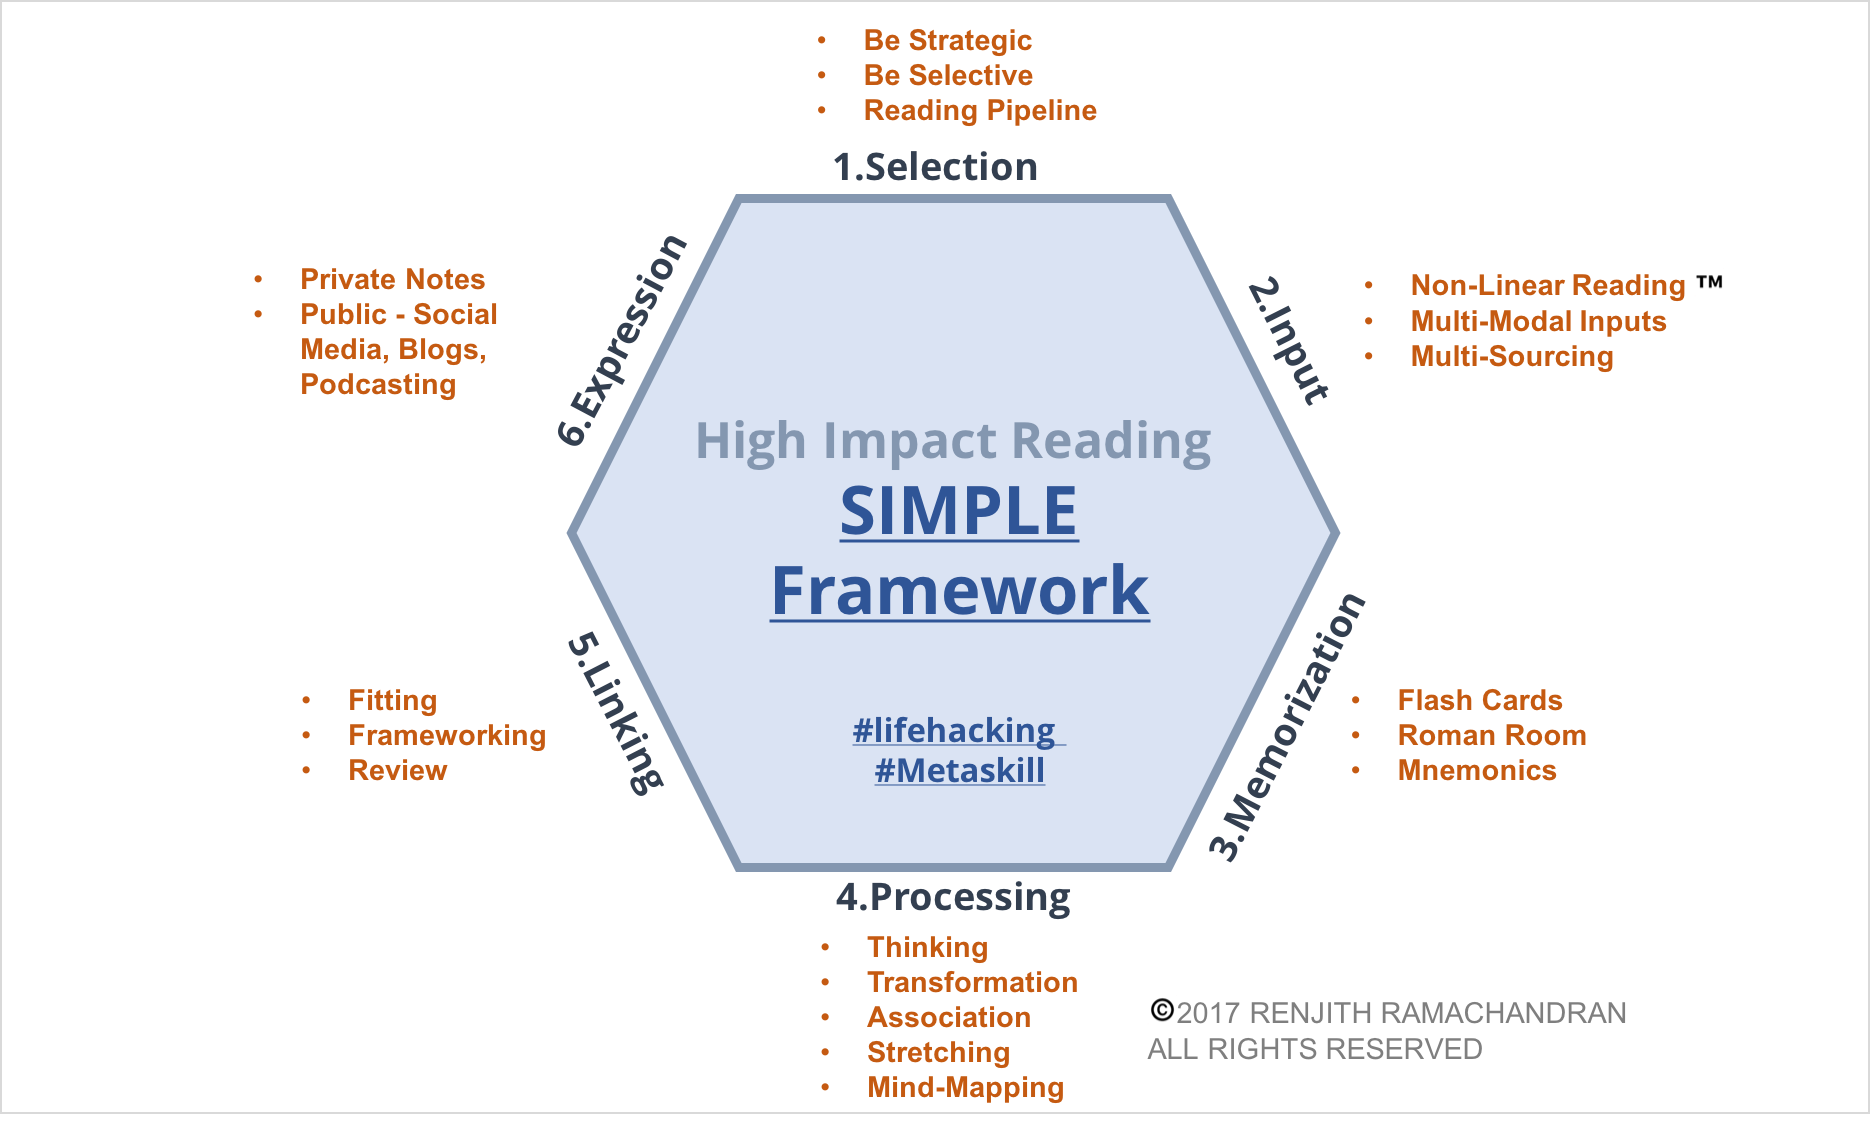
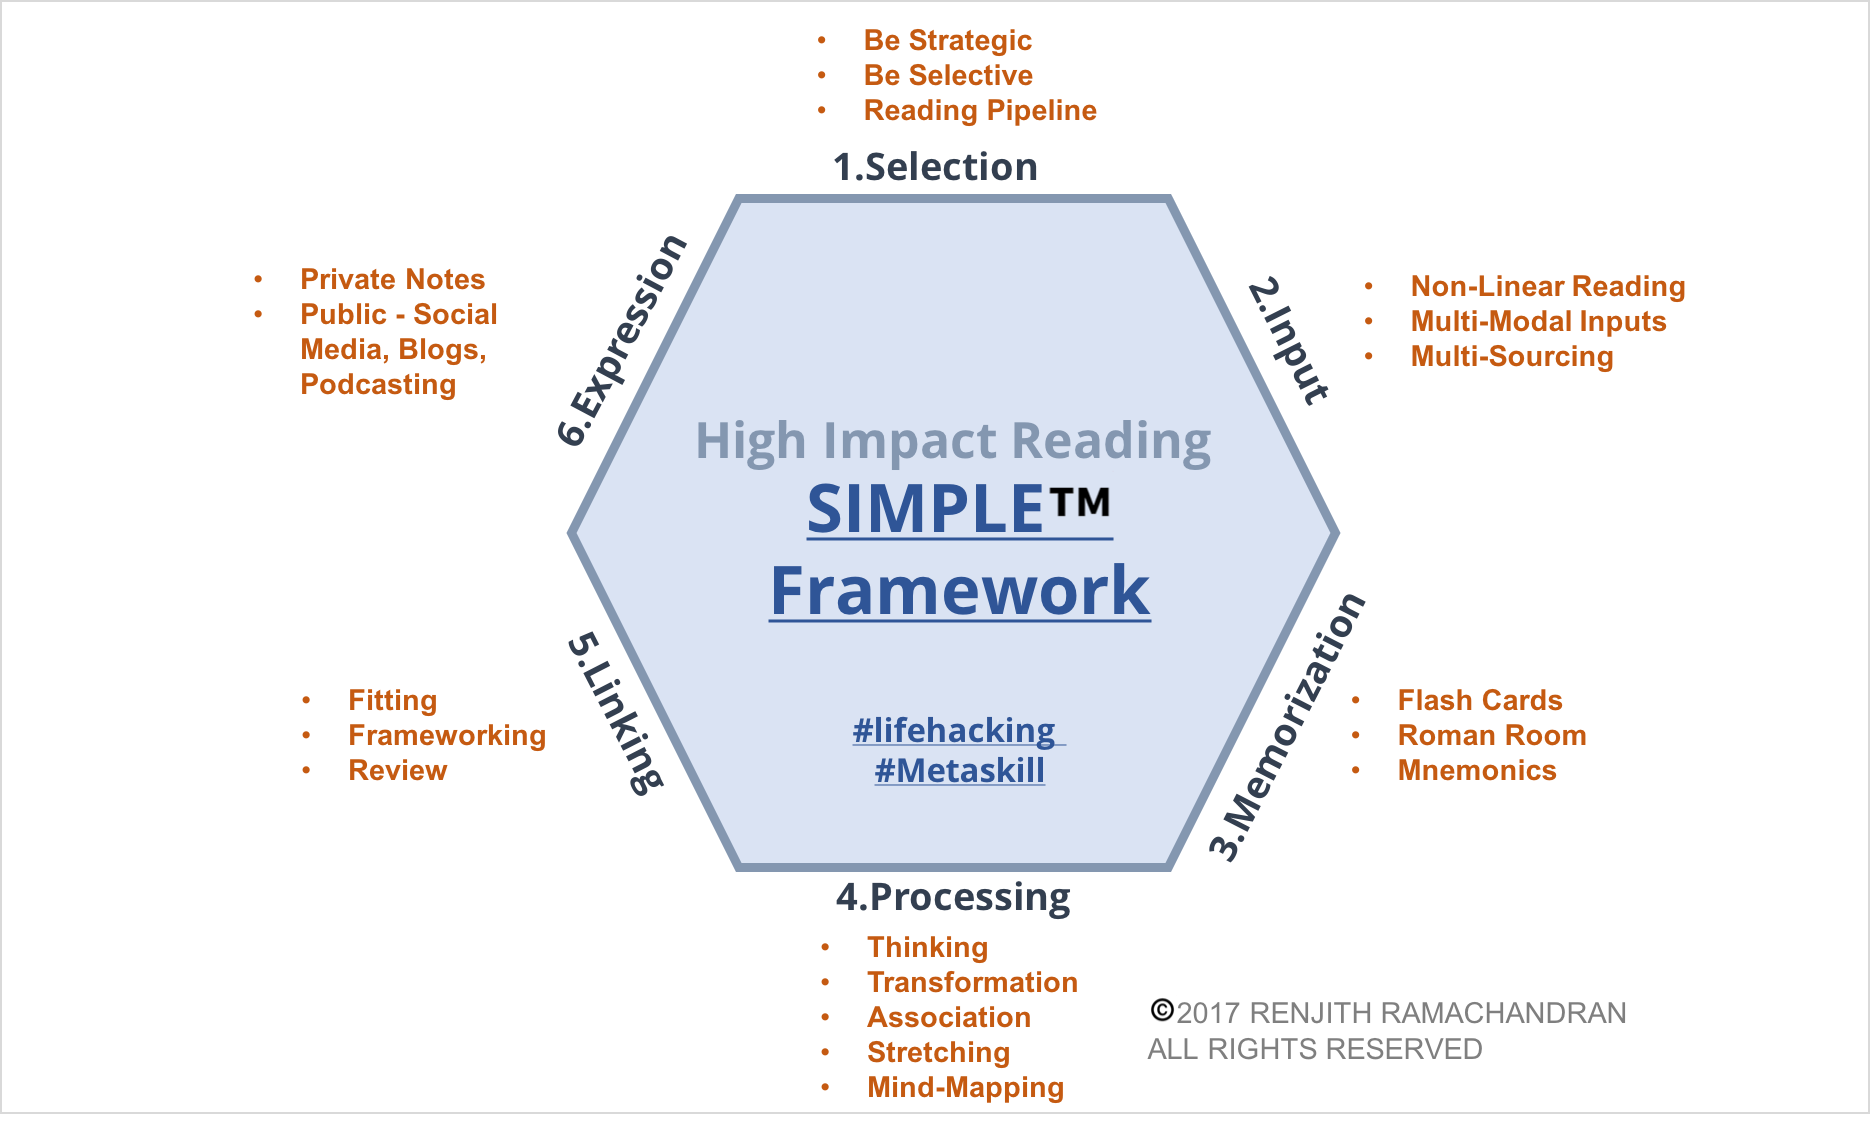
Added TOC to LAMA

Changed region(s): [[0.4342, 0.4055, 0.5893, 0.5615], [0.8064, 0.2496, 0.8995, 0.2807]]

diff --git a/_site/hireading/index.html b/_site/hireading/index.html
@@ -6,7 +6,7 @@
   <meta http-equiv="X-UA-Compatible" content="IE=edge">
   <meta name="viewport" content="width=device-width, initial-scale=1">
 
-  <title>High Impact Reading™ - SIMPLE™ Framework</title>
+  <title>High Impact Reading - SIMPLE™ Framework</title>
   <meta name="description" content="My blog to publish my thoughts on Technology, Strategy, Management">
 
   <link rel="stylesheet" href="/assets/main.css">
@@ -18,8 +18,8 @@
   
 
   <!-- Begin Jekyll SEO tag v2.2.3 -->
-<title>High Impact Reading™ - SIMPLE™ Framework | Renjith Ramachandran</title>
-<meta property="og:title" content="High Impact Reading™ - SIMPLE™ Framework" />
+<title>High Impact Reading - SIMPLE™ Framework | Renjith Ramachandran</title>
+<meta property="og:title" content="High Impact Reading - SIMPLE™ Framework" />
 <meta property="og:locale" content="en_US" />
 <meta name="description" content="My blog to publish my thoughts on Technology, Strategy, Management" />
 <meta property="og:description" content="My blog to publish my thoughts on Technology, Strategy, Management" />
@@ -27,7 +27,7 @@
 <meta property="og:url" content="http://localhost:4000/hireading/" />
 <meta property="og:site_name" content="Renjith Ramachandran" />
 <script type="application/ld+json">
-{"@context":"http://schema.org","@type":"WebPage","headline":"High Impact Reading™ - SIMPLE™ Framework","description":"My blog to publish my thoughts on Technology, Strategy, Management","url":"http://localhost:4000/hireading/"}</script>
+{"@context":"http://schema.org","@type":"WebPage","headline":"High Impact Reading - SIMPLE™ Framework","description":"My blog to publish my thoughts on Technology, Strategy, Management","url":"http://localhost:4000/hireading/"}</script>
 <!-- End Jekyll SEO tag -->
 
 </head>
@@ -77,7 +77,7 @@
           
             
             
-            <a class="page-link" href="/hireading/">High Impact Reading™ - SIMPLE™ Framework</a>
+            <a class="page-link" href="/hireading/">High Impact Reading - SIMPLE™ Framework</a>
             
           
             
@@ -119,7 +119,7 @@
         <article class="post" itemscope itemtype="http://schema.org/BlogPosting">
 
   <header class="post-header">
-    <h1 class="post-title" itemprop="name headline">High Impact Reading™ - SIMPLE™ Framework</h1>
+    <h1 class="post-title" itemprop="name headline">High Impact Reading - SIMPLE™ Framework</h1>
   </header>
 
   <div class="post-content" itemprop="articleBody">
@@ -131,10 +131,10 @@
 
 <p>Is there a better way to read non-fiction and business books which dramatically increases our comprehension and knowledge? Is the traditional linear reading the most effective way of reading a book? How can I retain all the information in a book in my mind when I need them?</p>
 
-<p>I started with these questions and after thinking and tweaking for several years, I have created an approach that dramatically improves the quality of reading for any non-fiction reader. I call this <strong>High Impact Reading™</strong></p>
+<p>I started with these questions and after thinking and tweaking for several years, I have created an approach that dramatically improves the quality of reading for any non-fiction reader. I call this <strong>High Impact Reading</strong></p>
 
 <ul id="markdown-toc">
-  <li><a href="#simple-framework-for-high-impact-reading" id="markdown-toc-simple-framework-for-high-impact-reading"><em>SIMPLE</em> Framework for High Impact Reading</a>    <ul>
+  <li><a href="#simple-framework-for-high-impact-reading" id="markdown-toc-simple-framework-for-high-impact-reading"><em>SIMPLE™</em> Framework for High Impact Reading</a>    <ul>
       <li><a href="#s---selection" id="markdown-toc-s---selection">S - Selection</a>        <ul>
           <li><a href="#be-strategic" id="markdown-toc-be-strategic">Be Strategic</a></li>
           <li><a href="#be-selective" id="markdown-toc-be-selective">Be Selective</a></li>
@@ -168,7 +168,7 @@
   <li><a href="#in-summary" id="markdown-toc-in-summary">In summary</a></li>
 </ul>
 
-<h1 id="simple-framework-for-high-impact-reading"><em>SIMPLE</em> Framework for High Impact Reading</h1>
+<h1 id="simple-framework-for-high-impact-reading"><em>SIMPLE™</em> Framework for High Impact Reading</h1>
 
 <p>The following are the six steps to more effective reading. I have arranged these steps into an easy to remember framework called SIMPLE. The following diagram summarizes the framework.</p>
 
@@ -299,7 +299,7 @@
 <p>Often, associating the knowledge that you have about a topic into a broad framework and placing the new knowledge into that framework is an effective method for linking for long term memory. A simple framework is a tree structure with some classification of the various concepts you know about the topic. For example, I put the 5 Leadership frameworks I like into a pentagon structure. This includes my own <a href="/victori">VICTORI</a> framework</p>
 
 <h3 id="review">Review</h3>
-<p>Review is a key element to linking. Periodically, review the concept structure in the book that was memorized during the memorization step. Then review the way this is linked to existing knowledge.</p>
+<p>Review is a key element to linking. Periodically, review the concept structure in the book that was memorized during the memorization step as well as Fitting and Frameworking that was done as a part of the Linking step. Then review the way this is linked to existing knowledge.</p>
 
 <h2 id="e---expression">E - Expression</h2>
 <p>The final step in the mastery of the concepts related to the book is to express these ideas yourself (Output). Use simple techniques to output your knowledge about the book and the concepts from the book. This can be done using</p>

diff --git a/_site/2017/08/20/hireading.html b/_site/2017/08/20/hireading.html
@@ -7,7 +7,7 @@
   <meta name="viewport" content="width=device-width, initial-scale=1">
 
   <title>High Impact Reading - SIMPLE framework</title>
-  <meta name="description" content="I have created a framework for a reading approach that is 10-100X more effective than traditional reading. Here is my High Impact Reading™ article.">
+  <meta name="description" content="I have created a framework for a reading approach that is 10-100X more effective than traditional reading. Here is my High Impact Reading article.">
 
   <link rel="stylesheet" href="/assets/main.css">
   <link rel="canonical" href="http://localhost:4000/2017/08/20/hireading.html">
@@ -21,15 +21,15 @@
 <title>High Impact Reading - SIMPLE framework | Renjith Ramachandran</title>
 <meta property="og:title" content="High Impact Reading - SIMPLE framework" />
 <meta property="og:locale" content="en_US" />
-<meta name="description" content="I have created a framework for a reading approach that is 10-100X more effective than traditional reading. Here is my High Impact Reading™ article." />
-<meta property="og:description" content="I have created a framework for a reading approach that is 10-100X more effective than traditional reading. Here is my High Impact Reading™ article." />
+<meta name="description" content="I have created a framework for a reading approach that is 10-100X more effective than traditional reading. Here is my High Impact Reading article." />
+<meta property="og:description" content="I have created a framework for a reading approach that is 10-100X more effective than traditional reading. Here is my High Impact Reading article." />
 <link rel="canonical" href="http://localhost:4000/2017/08/20/hireading.html" />
 <meta property="og:url" content="http://localhost:4000/2017/08/20/hireading.html" />
 <meta property="og:site_name" content="Renjith Ramachandran" />
 <meta property="og:type" content="article" />
 <meta property="article:published_time" content="2017-08-20T00:00:00+05:30" />
 <script type="application/ld+json">
-{"@context":"http://schema.org","@type":"BlogPosting","headline":"High Impact Reading - SIMPLE framework","datePublished":"2017-08-20T00:00:00+05:30","dateModified":"2017-08-20T00:00:00+05:30","description":"I have created a framework for a reading approach that is 10-100X more effective than traditional reading. Here is my High Impact Reading™ article.","mainEntityOfPage":{"@type":"WebPage","@id":"http://localhost:4000/2017/08/20/hireading.html"},"url":"http://localhost:4000/2017/08/20/hireading.html"}</script>
+{"@context":"http://schema.org","@type":"BlogPosting","headline":"High Impact Reading - SIMPLE framework","datePublished":"2017-08-20T00:00:00+05:30","dateModified":"2017-08-20T00:00:00+05:30","description":"I have created a framework for a reading approach that is 10-100X more effective than traditional reading. Here is my High Impact Reading article.","mainEntityOfPage":{"@type":"WebPage","@id":"http://localhost:4000/2017/08/20/hireading.html"},"url":"http://localhost:4000/2017/08/20/hireading.html"}</script>
 <!-- End Jekyll SEO tag -->
 
 </head>
@@ -79,7 +79,7 @@
           
             
             
-            <a class="page-link" href="/hireading/">High Impact Reading™ - SIMPLE™ Framework</a>
+            <a class="page-link" href="/hireading/">High Impact Reading - SIMPLE™ Framework</a>
             
           
             
@@ -131,7 +131,7 @@
   </header>
 
   <div class="post-content" itemprop="articleBody">
-    <p>I have created a framework for a reading approach that is 10-100X more effective than traditional reading. Here is my <strong>High Impact Reading™</strong> article.</p>
+    <p>I have created a framework for a reading approach that is 10-100X more effective than traditional reading. Here is my <strong>High Impact Reading</strong> article.</p>
 
 <p>Happy Reading!</p>
 

diff --git a/_site/lama/index.html b/_site/lama/index.html
@@ -77,7 +77,7 @@
           
             
             
-            <a class="page-link" href="/hireading/">High Impact Reading™ - SIMPLE™ Framework</a>
+            <a class="page-link" href="/hireading/">High Impact Reading - SIMPLE™ Framework</a>
             
           
             
@@ -126,7 +126,27 @@
     <h1 id="lean-architecture-method-for-agile">Lean Architecture Method for Agile</h1>
 <p>I have been lately doing some thinking on a better approach for integration of holistic systems thinking and architecture into agile execution with out impacting speed and agility. I have built a rough outline of a process that can be used with low friction and considerable value to the overall system. I call this the Lean Architecture Method for Agile (LAMA)</p>
 
-<p>7 Key principles of LAMA are:</p>
+<ul id="markdown-toc">
+  <li><a href="#lean-architecture-method-for-agile" id="markdown-toc-lean-architecture-method-for-agile">Lean Architecture Method for Agile</a>    <ul>
+      <li><a href="#7-key-principles-of-lama" id="markdown-toc-7-key-principles-of-lama">7 Key principles of LAMA</a></li>
+      <li><a href="#how-is-the-lama-initiated" id="markdown-toc-how-is-the-lama-initiated">How is the LAMA initiated?</a></li>
+      <li><a href="#lama--team" id="markdown-toc-lama--team">LAMA  team</a></li>
+      <li><a href="#lama-architecture-immersion-sprint" id="markdown-toc-lama-architecture-immersion-sprint">LAMA Architecture Immersion Sprint</a>        <ul>
+          <li><a href="#monday---functional-immersion" id="markdown-toc-monday---functional-immersion">Monday - Functional Immersion</a></li>
+          <li><a href="#tuesday---conceptual-immersion" id="markdown-toc-tuesday---conceptual-immersion">Tuesday - Conceptual Immersion</a></li>
+          <li><a href="#wednesday---technical-immersion" id="markdown-toc-wednesday---technical-immersion">Wednesday - Technical Immersion</a></li>
+          <li><a href="#thursday---runtime-immersion" id="markdown-toc-thursday---runtime-immersion">Thursday - Runtime Immersion</a></li>
+          <li><a href="#friday---presentation" id="markdown-toc-friday---presentation">Friday - Presentation</a></li>
+        </ul>
+      </li>
+      <li><a href="#after-the-architecture-immersion-sprint" id="markdown-toc-after-the-architecture-immersion-sprint">After the Architecture Immersion Sprint</a></li>
+      <li><a href="#benefits-of-lama" id="markdown-toc-benefits-of-lama">Benefits of LAMA</a></li>
+      <li><a href="#acknowledgements" id="markdown-toc-acknowledgements">Acknowledgements</a></li>
+    </ul>
+  </li>
+</ul>
+
+<h2 id="7-key-principles-of-lama">7 Key principles of LAMA</h2>
 <ol>
   <li><strong>Collaborate on Architecture:</strong> Architecture is a collaborative process. There is no room place for Ivory tower architectures in modern software development.</li>
   <li><strong>Think Systemically:</strong> Think and establish clear principles at a system level, which enable teams to act locally based on these principles at the Sprint team level.</li>

diff --git a/_site/2017/06/27/Books.html b/_site/2017/06/27/Books.html
@@ -79,7 +79,7 @@
           
             
             
-            <a class="page-link" href="/hireading/">High Impact Reading™ - SIMPLE™ Framework</a>
+            <a class="page-link" href="/hireading/">High Impact Reading - SIMPLE™ Framework</a>
             
           
             

diff --git a/_site/2017/07/10/BooksJuly.html b/_site/2017/07/10/BooksJuly.html
@@ -79,7 +79,7 @@
           
             
             
-            <a class="page-link" href="/hireading/">High Impact Reading™ - SIMPLE™ Framework</a>
+            <a class="page-link" href="/hireading/">High Impact Reading - SIMPLE™ Framework</a>
             
           
             

diff --git a/_site/2017/07/17/lama.html b/_site/2017/07/17/lama.html
@@ -79,7 +79,7 @@
           
             
             
-            <a class="page-link" href="/hireading/">High Impact Reading™ - SIMPLE™ Framework</a>
+            <a class="page-link" href="/hireading/">High Impact Reading - SIMPLE™ Framework</a>
             
           
             

diff --git a/_site/2017/07/30/victori.html b/_site/2017/07/30/victori.html
@@ -79,7 +79,7 @@
           
             
             
-            <a class="page-link" href="/hireading/">High Impact Reading™ - SIMPLE™ Framework</a>
+            <a class="page-link" href="/hireading/">High Impact Reading - SIMPLE™ Framework</a>
             
           
             

diff --git a/_site/2017/08/10/AgileQuant.html b/_site/2017/08/10/AgileQuant.html
@@ -79,7 +79,7 @@
           
             
             
-            <a class="page-link" href="/hireading/">High Impact Reading™ - SIMPLE™ Framework</a>
+            <a class="page-link" href="/hireading/">High Impact Reading - SIMPLE™ Framework</a>
             
           
             

diff --git a/_site/2017/08/11/DigitalStrategy.html b/_site/2017/08/11/DigitalStrategy.html
@@ -79,7 +79,7 @@
           
             
             
-            <a class="page-link" href="/hireading/">High Impact Reading™ - SIMPLE™ Framework</a>
+            <a class="page-link" href="/hireading/">High Impact Reading - SIMPLE™ Framework</a>
             
           
             

diff --git a/_site/404.html b/_site/404.html
@@ -77,7 +77,7 @@
           
             
             
-            <a class="page-link" href="/hireading/">High Impact Reading™ - SIMPLE™ Framework</a>
+            <a class="page-link" href="/hireading/">High Impact Reading - SIMPLE™ Framework</a>
             
           
             

diff --git a/_site/about/index.html b/_site/about/index.html
@@ -77,7 +77,7 @@
           
             
             
-            <a class="page-link" href="/hireading/">High Impact Reading™ - SIMPLE™ Framework</a>
+            <a class="page-link" href="/hireading/">High Impact Reading - SIMPLE™ Framework</a>
             
           
             

diff --git a/_site/deltadigital/index.html b/_site/deltadigital/index.html
@@ -77,7 +77,7 @@
           
             
             
-            <a class="page-link" href="/hireading/">High Impact Reading™ - SIMPLE™ Framework</a>
+            <a class="page-link" href="/hireading/">High Impact Reading - SIMPLE™ Framework</a>
             
           
             
